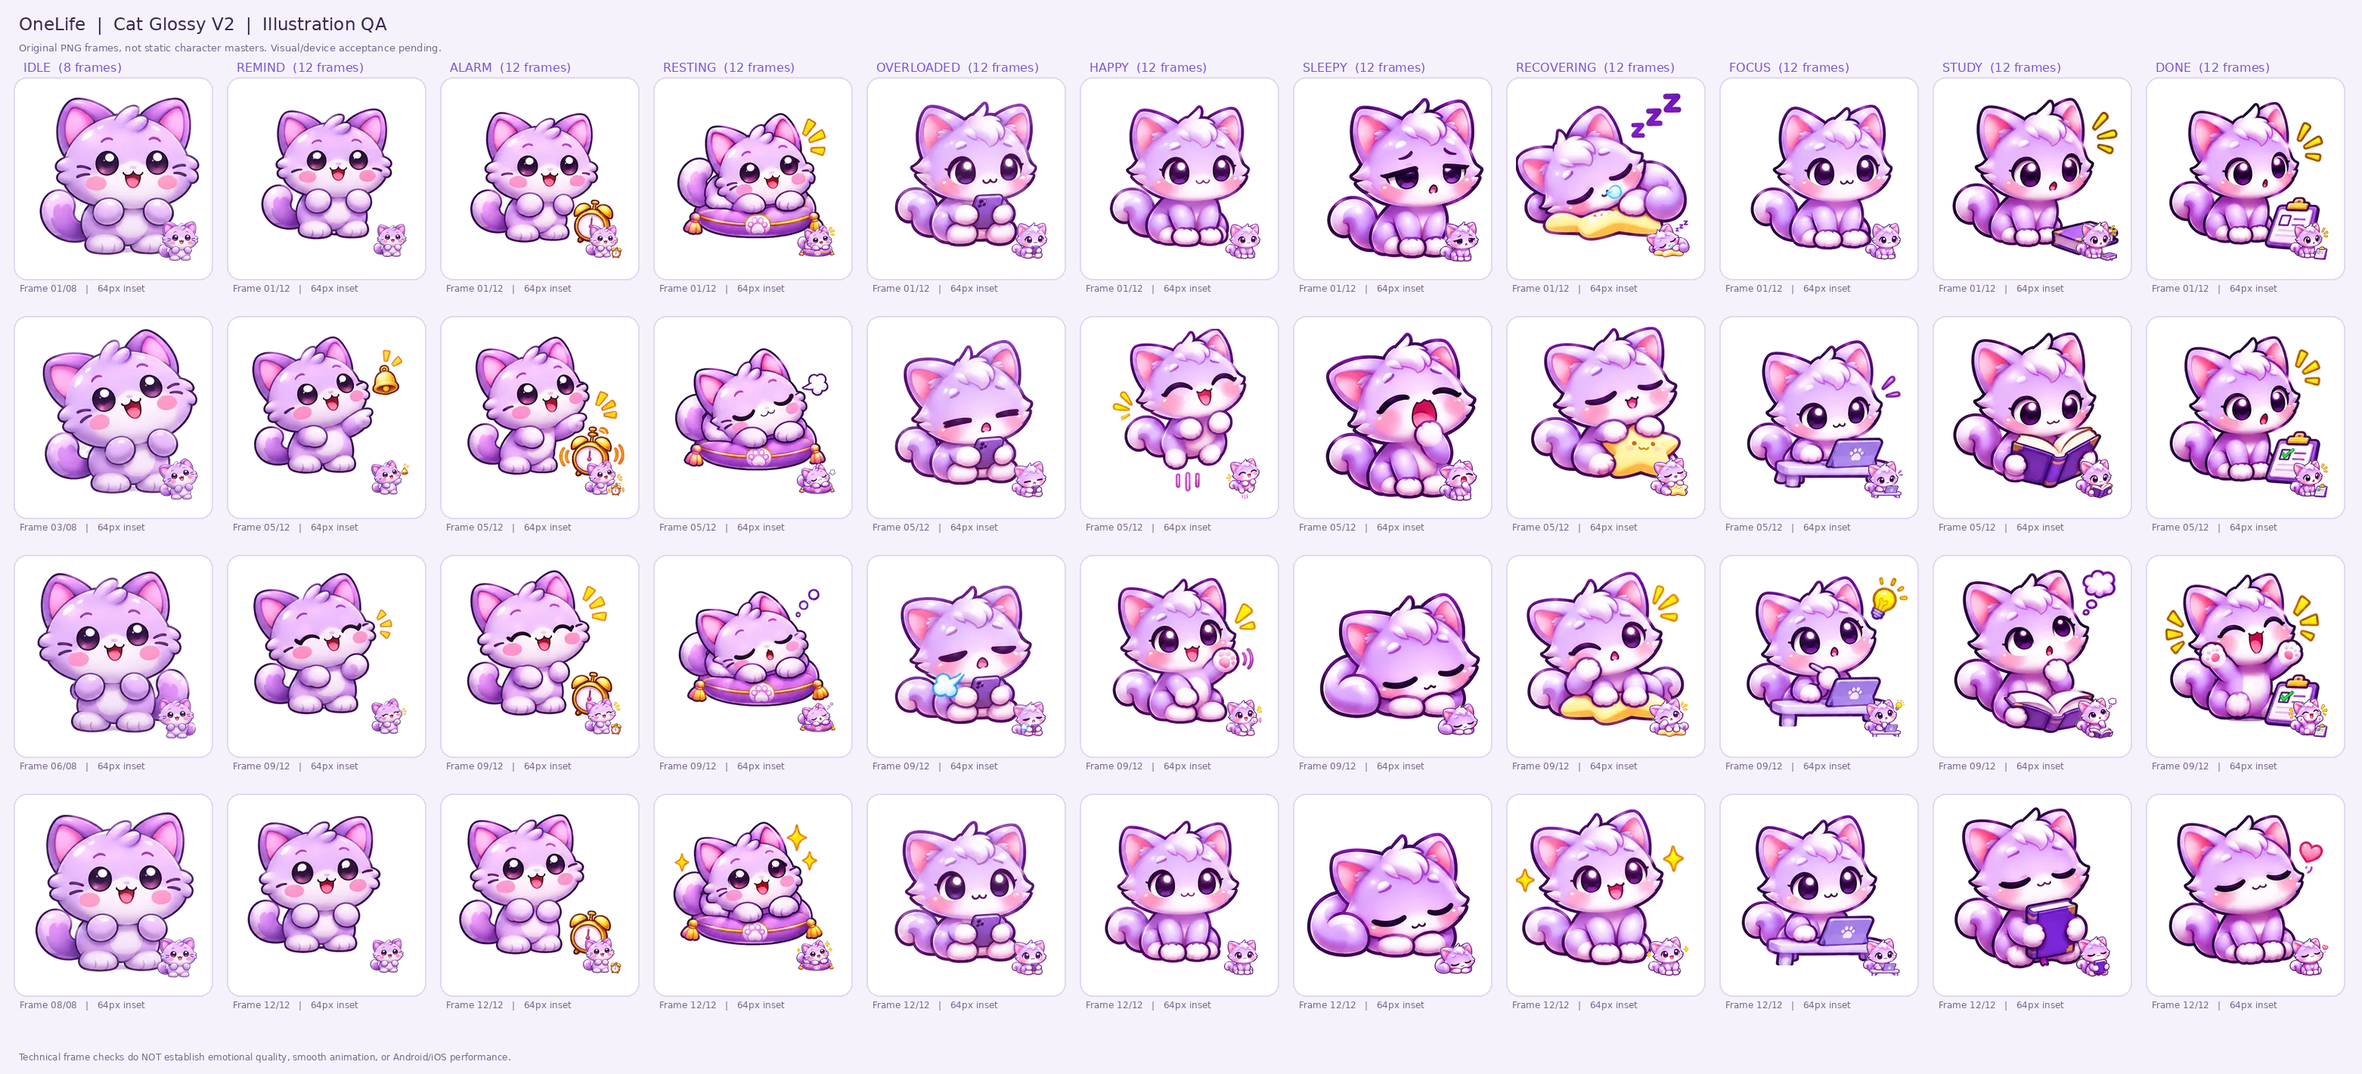
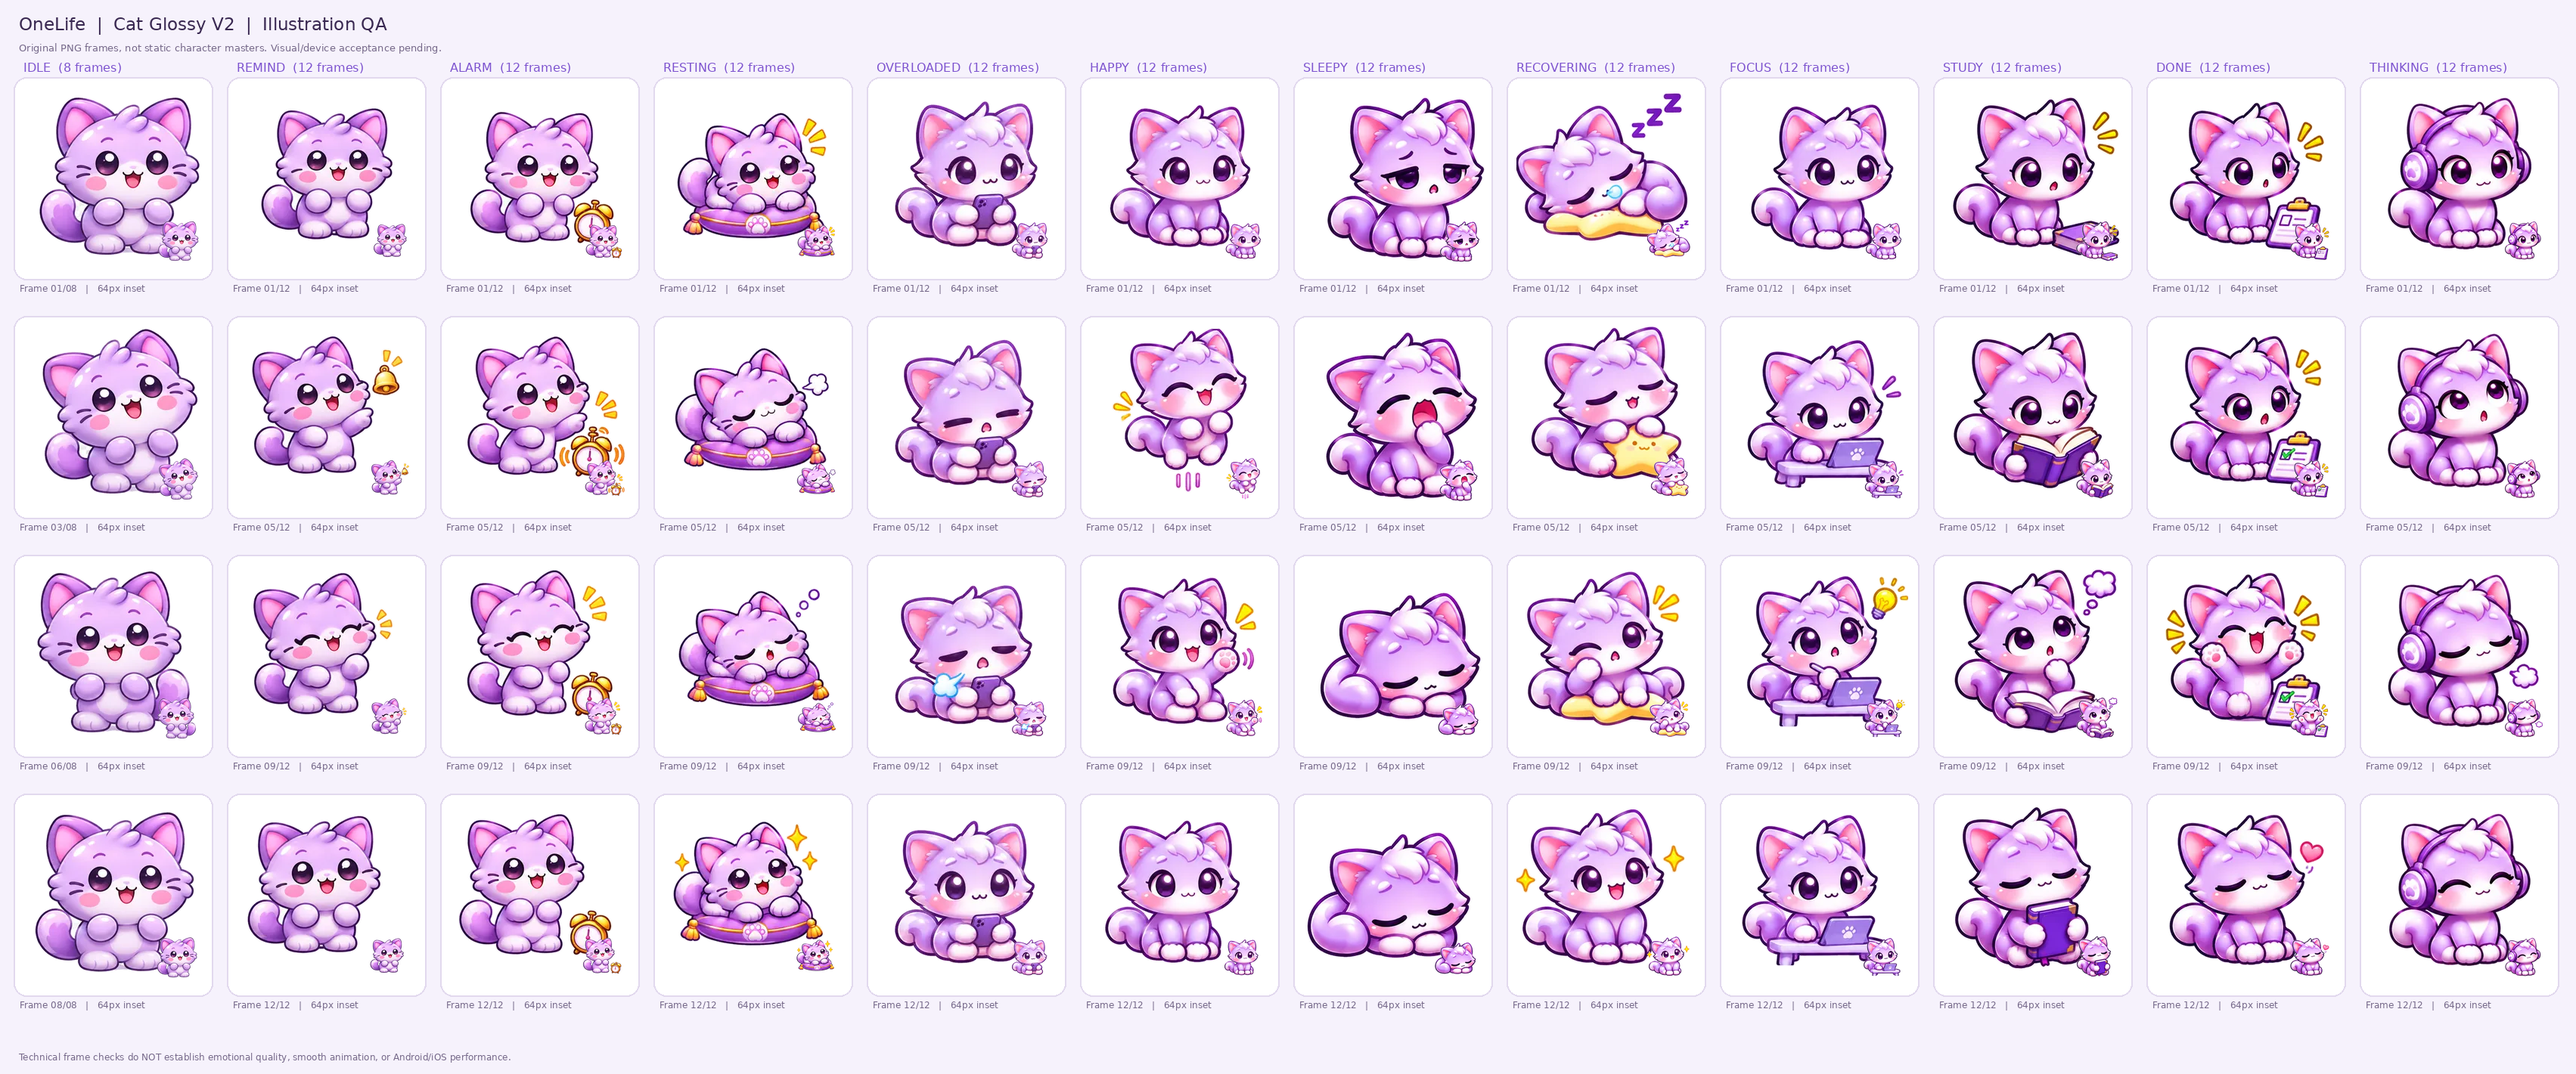
assets: render sourced glossy character animation candidates

diff --git a/design/review/glossy-cat-idle.html b/design/review/glossy-cat-idle.html
@@ -18,9 +18,9 @@ input[type=range]{min-width:110px;flex:1;accent-color:var(--accent)}
 .note{font-size:13px;color:var(--muted)}a{color:inherit}
 </style></head><body data-theme="light"><main>
 <h1>🐱 Mèo Tím · Glossy V2</h1>
-<p class="muted">11 trạng thái Mèo Glossy V2 có sprite PNG nguồn thật. Trình xem chỉ phục vụ QA; chưa phải ứng dụng Flutter, chưa nghiệm thu trên điện thoại.</p>
+<p class="muted">12 trạng thái Mèo Glossy V2 có sprite PNG nguồn thật. Trình xem chỉ phục vụ QA; chưa phải ứng dụng Flutter, chưa nghiệm thu trên điện thoại.</p>
 <div class="card"><span class="tag" id="tag">Idle · ứng viên mỹ thuật</span>
-<div class="controls"><label for="state">Biểu cảm</label><select id="state"><option value="idle">Idle · Bình thường</option><option value="remind">Remind · Nhắc việc</option><option value="alarm">Alarm · Báo thức</option><option value="happy">Happy · Vui vẻ</option><option value="overloaded">Overloaded · Quá tải minh họa</option><option value="resting">Resting · Nghỉ ngơi</option><option value="sleepy">Sleepy · Buồn ngủ</option><option value="recovering">Recovering · Tỉnh táo trở lại</option><option value="focus">Focus · Tập trung</option><option value="study">Study · Học tập</option><option value="done">Done · Hoàn thành</option></select>
+<div class="controls"><label for="state">Biểu cảm</label><select id="state"><option value="idle">Idle · Bình thường</option><option value="remind">Remind · Nhắc việc</option><option value="alarm">Alarm · Báo thức</option><option value="happy">Happy · Vui vẻ</option><option value="overloaded">Overloaded · Quá tải minh họa</option><option value="resting">Resting · Nghỉ ngơi</option><option value="sleepy">Sleepy · Buồn ngủ</option><option value="recovering">Recovering · Tỉnh táo trở lại</option><option value="focus">Focus · Tập trung</option><option value="study">Study · Học tập</option><option value="done">Done · Hoàn thành</option><option value="thinking">Thinking · Suy nghĩ</option></select>
 <label for="size">Kích thước</label><select id="size"><option value="256">256px</option><option value="144">144px</option><option value="96">96px</option><option value="64">64px</option></select></div>
 <div class="stage"><canvas id="stage" width="256" height="256" role="img" aria-label="Hoạt ảnh Mèo Glossy V2"></canvas></div>
 <div class="controls"><button id="toggle">⏸ Tạm dừng</button><button id="next">Frame kế ›</button><button id="theme">Sáng / Tối</button></div>
@@ -32,7 +32,7 @@ input[type=range]{min-width:110px;flex:1;accent-color:var(--accent)}
 </main><script>
 (function(){'use strict';
 const $=id=>document.getElementById(id), c=$('stage'),ctx=c.getContext('2d');
-const config={idle:{frames:8,duration:150,loop:true},remind:{frames:12,duration:125,loop:false},alarm:{frames:12,duration:100,loop:false},happy:{frames:12,duration:105,loop:true},overloaded:{frames:12,duration:125,loop:false},resting:{frames:12,duration:190,loop:true},sleepy:{frames:12,duration:185,loop:true},recovering:{frames:12,duration:115,loop:false},focus:{frames:12,duration:135,loop:false},study:{frames:12,duration:140,loop:false},done:{frames:12,duration:110,loop:false}};
+const config={idle:{frames:8,duration:150,loop:true},remind:{frames:12,duration:125,loop:false},alarm:{frames:12,duration:100,loop:false},happy:{frames:12,duration:105,loop:true},overloaded:{frames:12,duration:125,loop:false},resting:{frames:12,duration:190,loop:true},sleepy:{frames:12,duration:185,loop:true},recovering:{frames:12,duration:115,loop:false},focus:{frames:12,duration:135,loop:false},study:{frames:12,duration:140,loop:false},done:{frames:12,duration:110,loop:false},thinking:{frames:12,duration:150,loop:true}};
 let image=new Image(),frame=0,ready=false,last=0;
 let playing=!(window.matchMedia&&window.matchMedia('(prefers-reduced-motion: reduce)').matches);
 function state(){return config[$('state').value]}

diff --git a/docs/NEXT_AUTO_TASK.md b/docs/NEXT_AUTO_TASK.md
@@ -2,16 +2,16 @@
 
 **Generated by deterministic GitHub Actions checks. This is not autonomous AI artwork generation.**
 
-- Sourced illustration clips: **11/60**.
-- Remaining illustration sources: **49**.
+- Sourced illustration clips: **12/60**.
+- Remaining illustration sources: **48**.
 - Current gate: **no user/device art approval recorded**.
 
-## Next original-art task: cat/thinking
+## Next original-art task: cat/sad
 
 - Character master: `assets/characters-v2/cat/master.png`.
-- Create **8–12 genuinely distinct illustrated poses** for `thinking` in Glossy Kawaii V2, transparent 256×256 cells, 4 columns.
+- Create **8–12 genuinely distinct illustrated poses** for `sad` in Glossy Kawaii V2, transparent 256×256 cells, 4 columns.
 - Preserve character identity, real movement, no labels or poster grids.
-- Commit the source at `assets/characters-v2/cat/thinking/sheet_illustrated.webp`.
+- Commit the source at `assets/characters-v2/cat/sad/sheet_illustrated.webp`.
 - Add its true SHA-256, number of frames, interval, loop and provenance to `assets/characters-v2/animation_sources.json`.
 - The next scheduled worker run can produce PNG/GIF/metadata and update the review automatically.
 - **Missing source is a blocker**: this workflow cannot draw missing artwork or write creative code by itself.

diff --git a/docs/OTHER_MASCOT_COVERAGE.md b/docs/OTHER_MASCOT_COVERAGE.md
@@ -3,21 +3,21 @@
 **This report measures files, NOT finished product quality.**
 
 - Required: **60** clips = 4 characters × 15 states.
-- Original illustrated candidates: **11**.
+- Original illustrated candidates: **12**.
 - Derived-pose candidates (not independently illustrated): **0**.
-- Missing: **49**.
+- Missing: **48**.
 - Art approved on mobile: **0** (not independently tested).
 
 | Character | Original | Derived | Missing |
 |---|---:|---:|---:|
-| cat | 11 | 0 | 4 |
+| cat | 12 | 0 | 3 |
 | dog | 0 | 0 | 15 |
 | robot | 0 | 0 | 15 |
 | sprout | 0 | 0 | 15 |
 
 ## Missing states
 
-- **cat:** thinking, sad, balanced, strained
+- **cat:** sad, balanced, strained
 - **dog:** idle, remind, alarm, happy, overloaded, resting, sleepy, recovering, focus, study, done, thinking, sad, balanced, strained
 - **robot:** idle, remind, alarm, happy, overloaded, resting, sleepy, recovering, focus, study, done, thinking, sad, balanced, strained
 - **sprout:** idle, remind, alarm, happy, overloaded, resting, sleepy, recovering, focus, study, done, thinking, sad, balanced, strained
